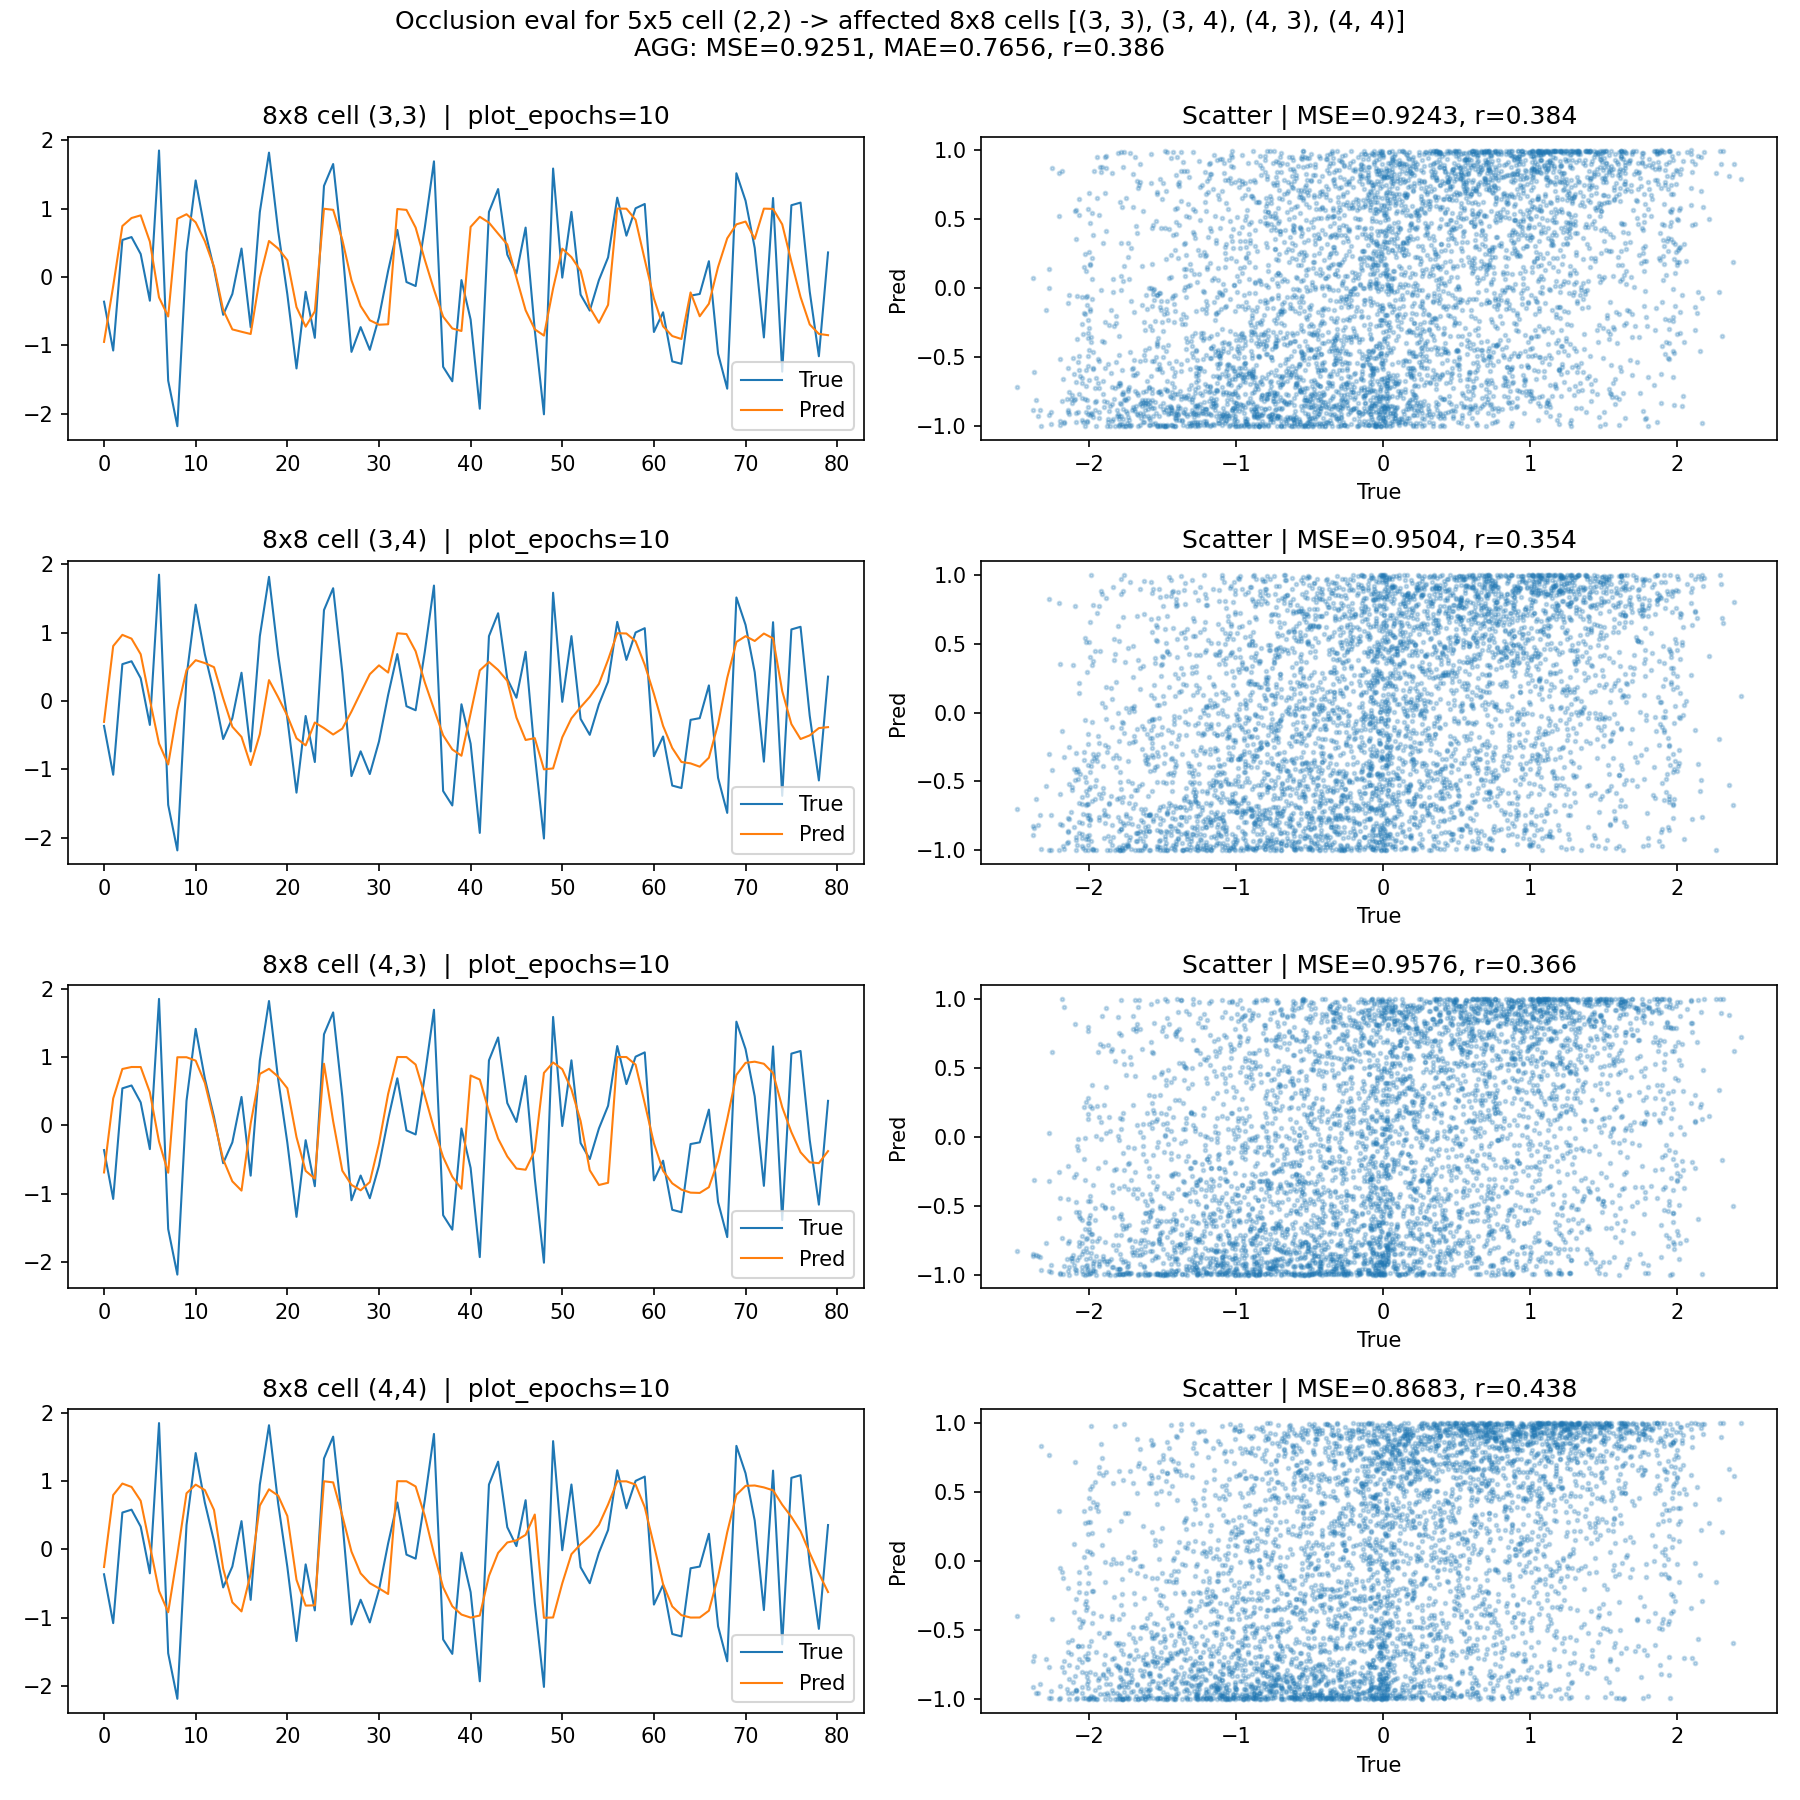
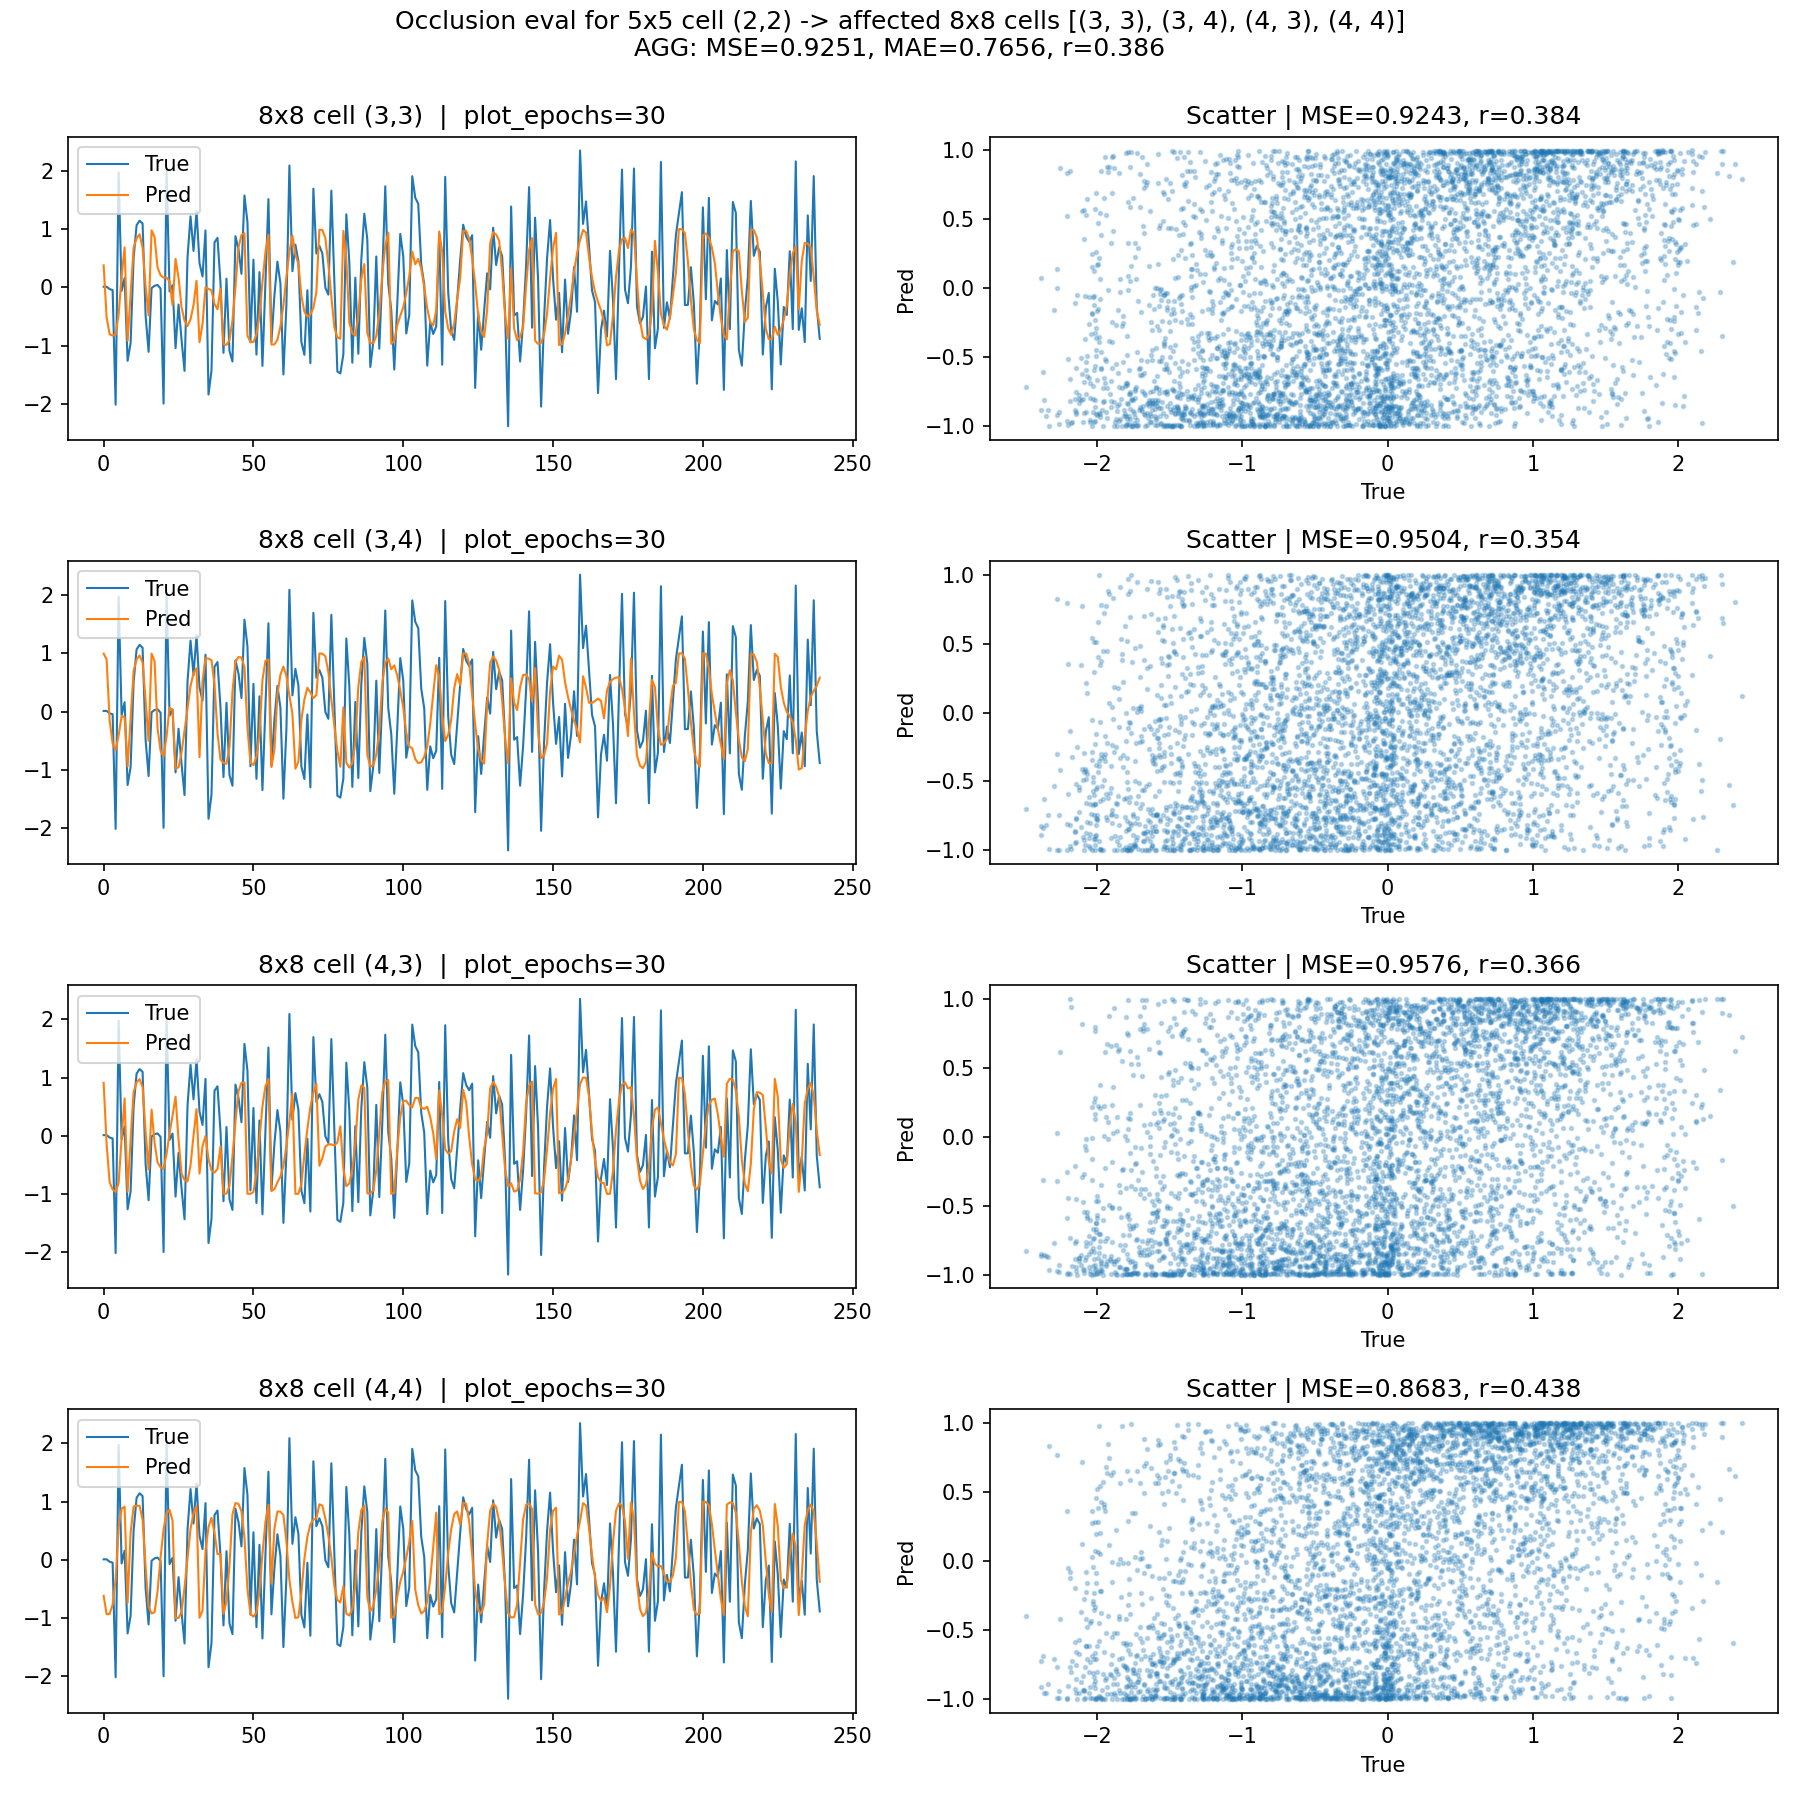
clean up files

diff --git a/scripts/localize_mi.py b/scripts/localize_mi.py
@@ -5,8 +5,6 @@ from pathlib import Path
 import numpy as np
 import pandas as pd
 import scipy.io as sio
-
-
 import matplotlib.pyplot as plt
 from utils.preprocess_dae import (
     canon,
@@ -16,7 +14,6 @@ from utils.preprocess_dae import (
     grid_padding,
     evaluate_and_plot_occluded_cell,
 )
-
 try:
     from tensorflow.keras.models import model_from_json
 except Exception:
@@ -40,7 +37,7 @@ map_df.columns = ["ten20", "egi"]
 map_df["ten20_c"] = map_df["ten20"].map(canon)     # e.g. "fp1"
 map_df["egi_c"]   = map_df["egi"].map(canon)       # e.g. "e37" OR "E37" -> "e37"
 
-# --- Load 10-20 grid from .mat and extract 10-20 labels present ---
+# --- Load 10-20 Intl. Standard grid ---
 mat = sio.loadmat(ROOT / "10-20_system.mat")
 grid = mat["map"]  # 5x5 cell array
 
@@ -58,13 +55,8 @@ for token in grid_clean.flatten():
             ten20_from_mat.add(core)
 
 ten20_from_mat = sorted(ten20_from_mat)
-print("10-20 labels in mat grid:", ten20_from_mat)
-print("Count:", len(ten20_from_mat))
-
 # --- Map those 10-20 labels -> EGI channel names (e37, e46, ...) ---
 wanted_map = map_df[map_df["ten20_c"].isin(ten20_from_mat)].copy()
-
-# sanity check: are we missing any mat labels?
 missing = set(ten20_from_mat) - set(wanted_map["ten20_c"])
 if missing:
     print("WARNING: mat labels missing from CSV map:", sorted(missing))
@@ -73,16 +65,10 @@ if missing:
 # - channels.tsv uses 'e1','e2',...
 # - map gives 'E37' so canon -> 'e37' is correct
 wanted_egi = sorted(set(wanted_map["egi_c"]))
-print("Mapped EGI channels:", wanted_egi)
-print("Mapped count:", len(wanted_egi))
 
 # --- Filter electrodes.tsv to those channels and show coordinates ---
 electrodes["name_c"] = electrodes["name"].map(canon)  # 'e1' -> 'e1'
 electrodes_1020 = electrodes[electrodes["name_c"].isin(wanted_egi)].copy()
-
-print("electrodes_1020 rows:", len(electrodes_1020))
-print(electrodes_1020[["name","x","y","z"]].head())
-
 channels["name_c"] = channels["name"].map(canon)
 name_to_idx = {nm: i for i, nm in enumerate(channels["name_c"].tolist())}
 valid = [nm for nm in wanted_egi if nm in name_to_idx]
@@ -131,7 +117,7 @@ for i in range(5):
 # G5: (N, n_win, 5, 5, 8)
 G5_flat = G5.reshape(N * n_win, 5, 5, 8)
 
-# ---- MINIMAL FIX: match the DAE preprocessing (zscore=True) ----
+# ---- Match the DAE preprocessing (zscore=True) ----
 mu = G5_flat.mean(axis=-1, keepdims=True)
 sd = G5_flat.std(axis=-1, keepdims=True) + 1e-8
 G5z = (G5_flat - mu) / sd
@@ -160,6 +146,6 @@ results = evaluate_and_plot_occluded_cell(
     Y_pred=Y_pred,
     occ_5x5=(2, 2),               
     out_png="localize_occlusion_eval.png",
-    max_epochs_plot=10,
-    seed=0
+    max_epochs_plot=30,
+    seed=3
 )
